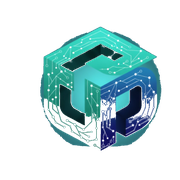
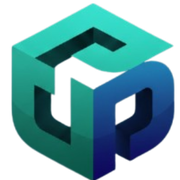
Add founder profile and update branding
- Add Leadership section with Pitamber Tiwari as Founder & CEO
- Add full logo to About page hero section
- Update navbar and footer logos to 50x50 dimensions
- Add pitamber.png profile image

diff --git a/app/about/page.tsx b/app/about/page.tsx
@@ -1,4 +1,5 @@
 import type { Metadata } from "next";
+import Image from "next/image";
 import Link from "next/link";
 import { Button } from "@/components/ui/button";
 import { Card, CardContent, CardHeader, CardTitle } from "@/components/ui/card";
@@ -90,6 +91,17 @@ export default function AboutPage() {
       <section className="relative py-20 lg:py-32">
         <div className="container mx-auto px-4">
           <div className="max-w-3xl mx-auto text-center">
+            {/* Full Logo */}
+            <div className="flex justify-center mb-8">
+              <Image
+                src="/logo.png"
+                alt="3P Trades Logo"
+                width={200}
+                height={200}
+                className="w-40 h-40 md:w-48 md:h-48 lg:w-56 lg:h-56"
+                priority
+              />
+            </div>
             <h1 className="text-4xl md:text-5xl lg:text-6xl font-bold tracking-tight mb-6">
               About{" "}
               <span className="bg-gradient-to-r from-blue-600 to-cyan-500 bg-clip-text text-transparent">
@@ -218,35 +230,42 @@ export default function AboutPage() {
         </div>
       </section>
 
-      {/* Team Section Placeholder */}
+      {/* Leadership Section */}
       <section className="py-20">
         <div className="container mx-auto px-4">
           <div className="text-center mb-12">
-            <h2 className="text-3xl md:text-4xl font-bold mb-4">Our Team</h2>
+            <h2 className="text-3xl md:text-4xl font-bold mb-4">Leadership</h2>
             <p className="text-lg text-muted-foreground max-w-2xl mx-auto">
-              Meet the talented individuals behind 3P Trades
+              Meet the visionary behind 3P Trades
             </p>
           </div>
           <div className="max-w-4xl mx-auto">
-            <div className="bg-muted/50 rounded-2xl p-12 text-center border border-dashed">
-              <svg
-                className="h-16 w-16 text-muted-foreground/50 mx-auto mb-4"
-                fill="none"
-                stroke="currentColor"
-                viewBox="0 0 24 24"
-              >
-                <path
-                  strokeLinecap="round"
-                  strokeLinejoin="round"
-                  strokeWidth={1.5}
-                  d="M17 20h5v-2a3 3 0 00-5.356-1.857M17 20H7m10 0v-2c0-.656-.126-1.283-.356-1.857M7 20H2v-2a3 3 0 015.356-1.857M7 20v-2c0-.656.126-1.283.356-1.857m0 0a5.002 5.002 0 019.288 0M15 7a3 3 0 11-6 0 3 3 0 016 0zm6 3a2 2 0 11-4 0 2 2 0 014 0zM7 10a2 2 0 11-4 0 2 2 0 014 0z"
-                />
-              </svg>
-              <h3 className="text-xl font-semibold mb-2">Team profiles coming soon</h3>
-              <p className="text-muted-foreground">
-                We&apos;re preparing detailed profiles of our talented team members.
-                Check back soon to learn more about the people who make 3P Trades great.
-              </p>
+            <div className="bg-card rounded-2xl p-8 md:p-12 border shadow-sm">
+              <div className="flex flex-col md:flex-row gap-8 items-center md:items-start">
+                {/* Profile Image */}
+                <div className="flex-shrink-0">
+                  <Image
+                    src="/pitamber.png"
+                    alt="Pitamber Tiwari"
+                    width={160}
+                    height={160}
+                    className="w-32 h-32 md:w-40 md:h-40 rounded-full object-cover"
+                  />
+                </div>
+
+                {/* Bio */}
+                <div className="flex-1 text-center md:text-left">
+                  <h3 className="text-2xl md:text-3xl font-bold mb-1">Pitamber Tiwari</h3>
+                  <p className="text-lg text-blue-500 font-medium mb-4">Founder & CEO</p>
+
+                  <p className="text-muted-foreground mb-6">
+                    A seasoned technology leader with over 20 years of experience building enterprise-grade
+                    software solutions. Pitamber founded 3P Trades with a vision to bring AI-first software
+                    development to businesses of all sizes, combining deep technical expertise with a
+                    customer-centric approach.
+                  </p>
+                </div>
+              </div>
             </div>
           </div>
         </div>

diff --git a/components/navbar.tsx b/components/navbar.tsx
@@ -26,9 +26,9 @@ export function Navbar() {
           <Image
             src="/logo-small.png"
             alt="3P Trades Logo"
-            width={40}
-            height={40}
-            className="h-10 w-auto"
+            width={50}
+            height={50}
+            className="h-8 w-auto"
           />
           <span className="text-2xl font-bold bg-gradient-to-r from-blue-600 to-cyan-500 bg-clip-text text-transparent">
             3P Trades

diff --git a/components/footer.tsx b/components/footer.tsx
@@ -48,8 +48,8 @@ export function Footer() {
               <Image
                 src="/logo-small.png"
                 alt="3P Trades Logo"
-                width={32}
-                height={32}
+                width={50}
+                height={50}
                 className="h-8 w-auto"
               />
               <span className="text-2xl font-bold bg-gradient-to-r from-blue-600 to-cyan-500 bg-clip-text text-transparent">
